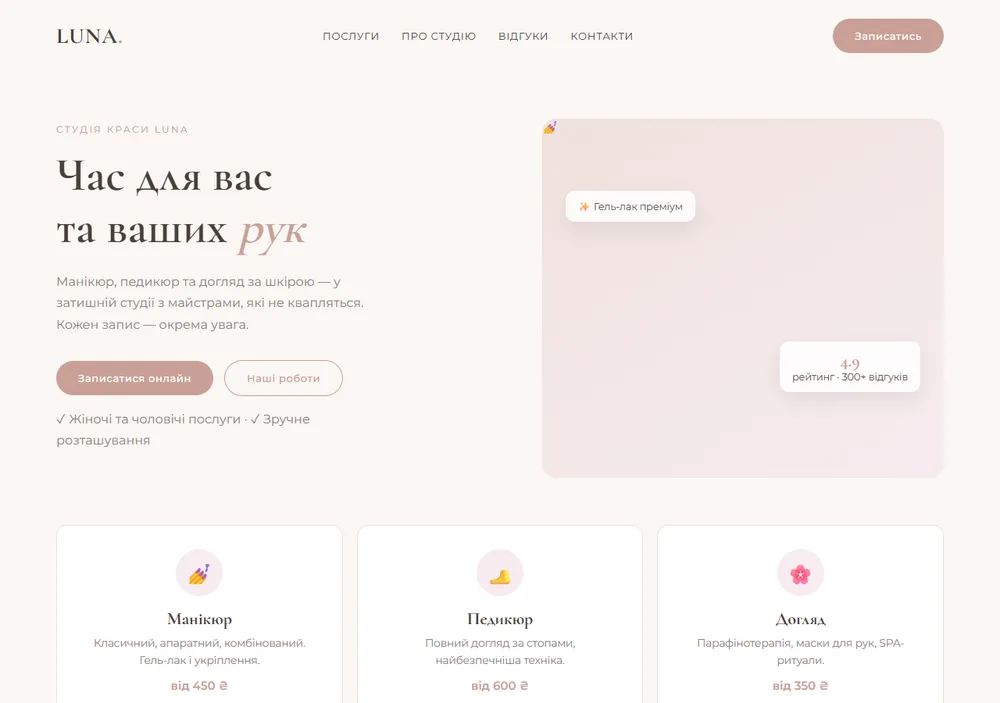
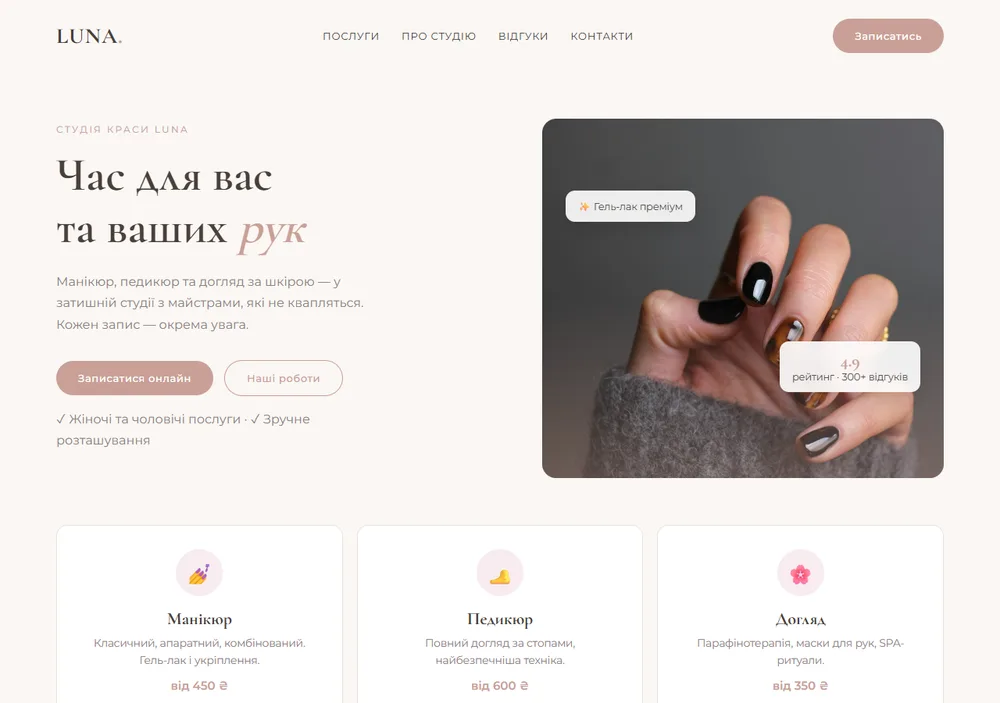
Лендінги: замінено абстрактні візуали на реальні стокові фото (unsplash)

Changed region(s): [[0.527, 0.1494, 0.961, 0.6871]]

diff --git a/public/works/luna.html b/public/works/luna.html
@@ -27,9 +27,10 @@
   .hero p{color:var(--muted);font-size:16px;line-height:1.7;max-width:420px;margin-bottom:32px}
   .hero-cta{display:flex;gap:14px;align-items:center;flex-wrap:wrap}
   .hero-note{font-size:13px;color:var(--muted);margin-top:16px}
-  .visual{position:relative;height:460px;border-radius:18px;background:linear-gradient(150deg,#f0e2dd,#f7ecf0)};
-  .circle{position:absolute;top:50%;left:50%;transform:translate(-50%,-50%);width:240px;height:240px;border-radius:50%;background:radial-gradient(circle at 35% 30%,#fff,var(--pink));display:grid;place-items:center;font-size:90px;box-shadow:0 30px 60px rgba(201,160,150,.28)}
-  .float-card{position:absolute;background:rgba(255,255,255,.85);backdrop-filter:blur(6px);border-radius:12px;padding:12px 16px;font-size:12.5px;box-shadow:0 10px 25px rgba(0,0,0,.08)}
+  .visual{position:relative;height:460px;border-radius:18px;overflow:hidden}
+  .visual img{position:absolute;inset:0;width:100%;height:100%;object-fit:cover;object-position:center}
+  .visual::after{content:"";position:absolute;inset:0;background:linear-gradient(180deg,rgba(250,247,244,0) 50%,rgba(201,160,150,.4))}
+  .float-card{position:absolute;background:rgba(255,255,255,.9);backdrop-filter:blur(6px);border-radius:12px;padding:12px 16px;font-size:12.5px;box-shadow:0 10px 25px rgba(0,0,0,.12);z-index:2}
   .fc1{top:20%;left:30px}.fc2{bottom:24%;right:30px;text-align:center}
   .fc2 b{display:block;font-family:'Cormorant Garamond';font-size:22px;color:var(--rose)}
   .services{display:grid;grid-template-columns:repeat(3,1fr);gap:18px;margin-bottom:80px}
@@ -40,7 +41,8 @@
   .srv p{color:var(--muted);font-size:13.5px;line-height:1.6;margin-bottom:12px}
   .srv .price{color:var(--rose);font-weight:600;font-size:15px}
   .about{display:grid;grid-template-columns:.8fr 1.2fr;gap:40px;align-items:center;margin-bottom:80px}
-  .about .mast{height:360px;border-radius:16px;background:linear-gradient(160deg,#f4e6e0,#fbf4f0);display:grid;place-items:center;font-size:70px}
+  .about .mast{height:360px;border-radius:16px;overflow:hidden;position:relative}
+  .about .mast img{width:100%;height:100%;object-fit:cover;display:block}
   .about h2{font-family:'Cormorant Garamond';font-size:clamp(28px,4vw,40px);font-weight:700;margin-bottom:14px}
   .about p{color:var(--muted);line-height:1.7;margin-bottom:16px}
   .sign{font-family:'Cormorant Garamond';font-style:italic;font-size:22px;color:var(--rose)}
@@ -76,7 +78,7 @@
       <p class="hero-note">✓ Жіночі та чоловічі послуги · ✓ Зручне розташування</p>
     </div>
     <div class="visual">
-      <div class="circle">💅</div>
+      <img src="./img/luna.jpg" alt="Салон краси LUNA — догляд за руками" />
       <div class="float-card fc1">✨ Гель-лак преміум</div>
       <div class="float-card fc2"><b>4.9</b>рейтинг · 300+ відгуків</div>
     </div>
@@ -89,7 +91,7 @@
   </section>
 
   <section class="about">
-    <div class="mast">💐</div>
+    <div class="mast"><img src="./img/luna-about.jpg" alt="Майстерня студії краси LUNA" /></div>
     <div>
       <h2>Студія, куди хочуть повертатись</h2>
       <p>Ми не беремо більше двох клієнтів одночасно — кожна майстриня працює без поспіху. Інструмент стерилізуємо за протоколом, матеріали — сертифіковані.</p>

diff --git a/public/works/nexlab.html b/public/works/nexlab.html
@@ -28,13 +28,13 @@
   .hero p{color:var(--muted);font-size:17px;line-height:1.7;max-width:450px;margin-bottom:32px}
   .hero-cta{display:flex;gap:14px}
   .hero-note{margin-top:18px;font-size:13px;color:var(--muted)}
-  .mock{position:relative;background:var(--card);border:1px solid var(--line);border-radius:14px;padding:18px;box-shadow:0 24px 60px rgba(0,0,0,.4)}
-  .mock-bar{display:flex;gap:6px;margin-bottom:16px;align-items:center}
+  .mock{position:relative;background:var(--card);border:1px solid var(--line);border-radius:14px;padding:14px;box-shadow:0 24px 60px rgba(0,0,0,.4)}
+  .mock-photo{position:relative;border-radius:10px;overflow:hidden;margin-bottom:14px;height:230px}
+  .mock-photo img{width:100%;height:100%;object-fit:cover;display:block}
+  .mock-photo::after{content:"";position:absolute;inset:0;background:linear-gradient(180deg,rgba(11,15,26,0) 40%,rgba(11,15,26,.6))}
+  .mock-bar{display:flex;gap:6px;margin-bottom:14px;align-items:center}
   .mock-bar i{width:10px;height:10px;border-radius:50%;background:#374151}
   .mock-bar i:nth-child(1){background:#f87171}.mock-bar i:nth-child(2){background:#fbbf24}
-  .mock-chart{display:grid;grid-template-columns:1fr 1fr;gap:12px;margin-bottom:14px}
-  .chart{height:120px;display:flex;align-items:flex-end;gap:4px;background:rgba(255,255,255,.02);border-radius:8px;padding:12px}
-  .chart i{flex:1;background:linear-gradient(180deg,var(--accent),var(--accent2));border-radius:3px 3px 0 0;opacity:.85}
   .mock-stats{display:grid;grid-template-columns:repeat(3,1fr);gap:10px}
   .mstat{background:rgba(255,255,255,.03);border:1px solid var(--line);border-radius:8px;padding:12px;text-align:center}
   .mstat b{display:block;font-family:'Space Grotesk';font-size:20px}
@@ -77,10 +77,7 @@
     </div>
     <div class="mock">
       <div class="mock-bar"><i></i><i></i><i></i></div>
-      <div class="mock-chart">
-        <div class="chart"><i style="height:60%"></i><i style="height:75%"></i><i style="height:58%"></i><i style="height:85%"></i><i style="height:68%"></i></div>
-        <div class="chart"><i style="height:40%;background:linear-gradient(180deg,#f87171,#fb7185)"></i><i style="height:52%"></i><i style="height:45%;background:linear-gradient(180deg,#f87171,#fb7185)"></i><i style="height:62%"></i><i style="height:55%"></i></div>
-      </div>
+      <div class="mock-photo"><img src="./img/nexlab.jpg" alt="Аналітика бізнесу в реальному часі" /></div>
       <div class="mock-stats">
         <div class="mstat"><b>+38%</b><span>конверсія</span></div>
         <div class="mstat"><b>2.4x</b><span>окупаємість</span></div>

diff --git a/public/works/fitness.html b/public/works/fitness.html
@@ -27,12 +27,14 @@
   .hero p{color:var(--gray);font-size:16px;line-height:1.6;max-width:420px;margin-bottom:30px}
   .hero-cta{display:flex;gap:14px;flex-wrap:wrap}
   .hero-num{position:absolute;right:0;top:24px;font-family:'Oswald';font-weight:700;font-size:120px;line-height:1;color:transparent;-webkit-text-stroke:1px rgba(255,255,255,.08);user-select:none}
-  .visual{position:relative;height:480px;background:linear-gradient(160deg,#1c1c1c,#0a0a0a);border:1px solid #222}
-  .ring{position:absolute;top:50%;left:50%;transform:translate(-50%,-50%);width:280px;height:280px;border-radius:50%;border:2px solid var(--red);display:grid;place-items:center;text-align:center}
+  .visual{position:relative;height:480px;overflow:hidden;border:1px solid #222}
+  .visual img{position:absolute;inset:0;width:100%;height:100%;object-fit:cover;object-position:center}
+  .visual::after{content:"";position:absolute;inset:0;background:linear-gradient(180deg,rgba(10,10,10,0) 45%,rgba(10,10,10,.6))}
+  .ring{position:absolute;top:50%;left:50%;transform:translate(-50%,-50%);width:280px;height:280px;border-radius:50%;border:2px solid var(--red);display:grid;place-items:center;text-align:center;background:rgba(10,10,10,.45);backdrop-filter:blur(4px);z-index:2}
   .ring::before{content:"";position:absolute;inset:14px;border-radius:50%;border:1px dashed rgba(255,45,85,.5)}
   .ring b{font-family:'Oswald';font-size:64px;font-weight:700;line-height:1}
-  .ring span{display:block;font-size:12px;color:var(--gray);letter-spacing:.15em;margin-top:6px}
-  .floating{position:absolute;background:var(--card);border:1px solid #252525;padding:12px 16px;font-size:12px;font-weight:600}
+  .ring span{display:block;font-size:12px;color:#ccc;letter-spacing:.15em;margin-top:6px}
+  .floating{position:absolute;background:var(--card);border:1px solid #252525;padding:12px 16px;font-size:12px;font-weight:600;z-index:2}
   .fl1{top:20%;left:40px}.fl2{bottom:20%;right:40px}
   .marquee{overflow:hidden;border-top:2px solid #1a1a1a;border-bottom:2px solid #1a1a1a;padding:12px 0;margin:20px 0 60px}
   .marquee span{font-family:'Oswald';font-weight:600;font-size:18px;text-transform:uppercase;color:#333;margin-right:40px;letter-spacing:.05em}
@@ -71,6 +73,7 @@
       </div>
     </div>
     <div class="visual">
+      <img src="./img/fitness.jpg" alt="Тренування у фітнес-студії" />
       <div class="ring"><div><b>45′</b><span>інтенсивності</span></div></div>
       <div class="floating fl1">🔥 Спалюєш 600 ккал</div>
       <div class="floating fl2">🏆 Сертифіковані тренери</div>

diff --git a/public/works/cafe.html b/public/works/cafe.html
@@ -27,14 +27,10 @@
   .hero p{color:var(--muted);font-size:16px;line-height:1.7;max-width:440px;margin-bottom:34px}
   .hero-cta{display:flex;gap:16px;align-items:center}
   .link{color:var(--cream);text-decoration:none;border-bottom:1px solid var(--gold);padding-bottom:3px;font-size:14px}
-  .hero-img{position:relative;height:520px;background:linear-gradient(135deg,#2a211a 0%,#1a1713 60%,#12100e 100%);border:1px solid var(--line)}
-  .hero-img::before{content:"";position:absolute;inset:0;background:
-    radial-gradient(circle at 30% 30%,rgba(201,168,106,.35),transparent 45%),
-    radial-gradient(circle at 80% 80%,rgba(201,168,106,.15),transparent 40%);
-    border:8px solid var(--card);top:22px;left:22px;right:-22px;bottom:-22px;z-index:-1}
-  .hero-img .cup{position:absolute;top:50%;left:50%;transform:translate(-50%,-50%);width:180px;height:180px;background:radial-gradient(circle,#2f271d 0%,#1e190f 70%);border:1px solid var(--gold);border-radius:50%;display:grid;place-items:center}
-  .hero-img .cup::before{content:"☕";font-size:64px}
-  .floating{position:absolute;background:var(--card);border:1px solid var(--line);padding:10px 16px;font-size:12px}
+  .hero-img{position:relative;height:520px;overflow:hidden;border:1px solid var(--line)}
+  .hero-img img{position:absolute;inset:0;width:100%;height:100%;object-fit:cover;object-position:center}
+  .hero-img::after{content:"";position:absolute;inset:0;background:linear-gradient(180deg,rgba(18,16,14,0) 50%,rgba(18,16,14,.55))}
+  .floating{position:absolute;background:var(--card);border:1px solid var(--line);padding:10px 16px;font-size:12px;z-index:2}
   .f1{top:30px;right:20px}.f2{bottom:40px;left:24px}
   .stats{display:grid;grid-template-columns:repeat(3,1fr);gap:0;border-top:1px solid var(--line);border-bottom:1px solid var(--line);margin-bottom:80px}
   .stat{padding:30px;text-align:center;border-right:1px solid var(--line)}
@@ -78,7 +74,7 @@
       </div>
     </div>
     <div class="hero-img">
-      <div class="cup"></div>
+      <img src="./img/cafe.jpg" alt="Кава в затишній кав'ярні" />
       <div class="floating f1">☕ Еспресо · 55 ₴</div>
       <div class="floating f2">🍰 Сирник · 90 ₴</div>
     </div>

diff --git a/public/works/stroyka.html b/public/works/stroyka.html
@@ -26,12 +26,11 @@
   h1{font-family:'Russo One',sans-serif;font-weight:400;font-size:clamp(36px,5vw,56px);line-height:1.05;text-transform:uppercase;margin-bottom:22px}
   .hero p{color:var(--muted);font-size:16px;line-height:1.6;max-width:440px;margin-bottom:30px}
   .hero-cta{display:flex;gap:16px;flex-wrap:wrap}
-  .blueprint{position:relative;height:460px;background:
-    linear-gradient(rgba(20,20,20,.07) 1px,transparent 1px),
-    linear-gradient(90deg,rgba(20,20,20,.07) 1px,transparent 1px);
-    background-size:24px 24px;border:1px solid var(--line);padding:20px}
-  .bp-card{position:absolute;background:#fff;border:1px solid var(--line);box-shadow:0 12px 30px rgba(0,0,0,.06);padding:16px}
-  .bp1{top:60px;left:50px;width:180px;height:120px;border:2px solid var(--accent)}
+  .blueprint{position:relative;height:460px;overflow:hidden;border:1px solid var(--line);background:#f4f1ec}
+  .blueprint img{position:absolute;inset:0;width:100%;height:100%;object-fit:cover;object-position:center}
+  .blueprint::after{content:"";position:absolute;inset:0;background:linear-gradient(200deg,rgba(244,241,236,0) 55%,rgba(20,20,20,.5))}
+  .bp-card{position:absolute;background:#fff;border:1px solid var(--line);box-shadow:0 12px 30px rgba(0,0,0,.14);padding:16px;z-index:2}
+  .bp1{top:60px;left:50px;width:180px;height:120px;border:2px solid var(--accent);background:rgba(255,255,255,.9)}
   .bp1::after{content:"проєкт";position:absolute;inset:auto 10px 8px 10px;font-family:'Roboto Condensed';font-weight:700;font-size:12px;letter-spacing:.1em;color:var(--accent)}
   .bp2{bottom:50px;right:60px;width:220px;padding:14px}
   .bp2 b{font-family:'Russo One';font-size:20px}
@@ -83,6 +82,7 @@
       </div>
     </div>
     <div class="blueprint">
+      <img src="./img/stroyka.jpg" alt="Будівництво будинку під ключ" />
       <div class="bp-card bp1"></div>
       <div class="bp-card bp2"><b>287 об'єктів</b><span>здано за останні 7 років</span></div>
       <div class="bp-card bp3"><b>14 років</b><span>на ринку</span></div>
